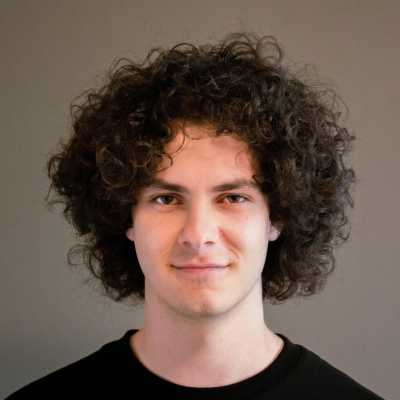
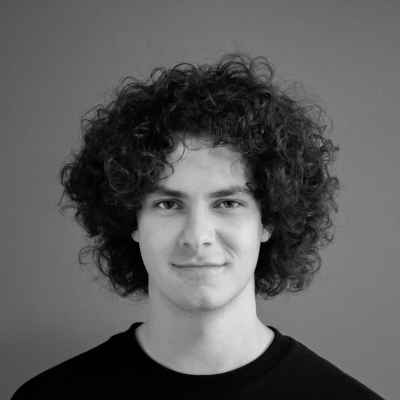
pfp tweaks

diff --git a/index.html b/index.html
@@ -16,7 +16,7 @@
 
         </nav>
         <div class="mt-20 text-center flex items-center max-w mx-auto">
-            <img class="w-48 h-48 rounded-full grayscale" src="./pfp.jpg">
+            <img class="w-48 h-48 rounded-full" src="./pfp.jpg">
             <div class="ml-10 text-left">
                 <p class="text-4xl font-bold font-sans">Hugo Rodríguez</p>
                 <p class="text-lg font-sans text-gray-500">Computer science engineer</p>
